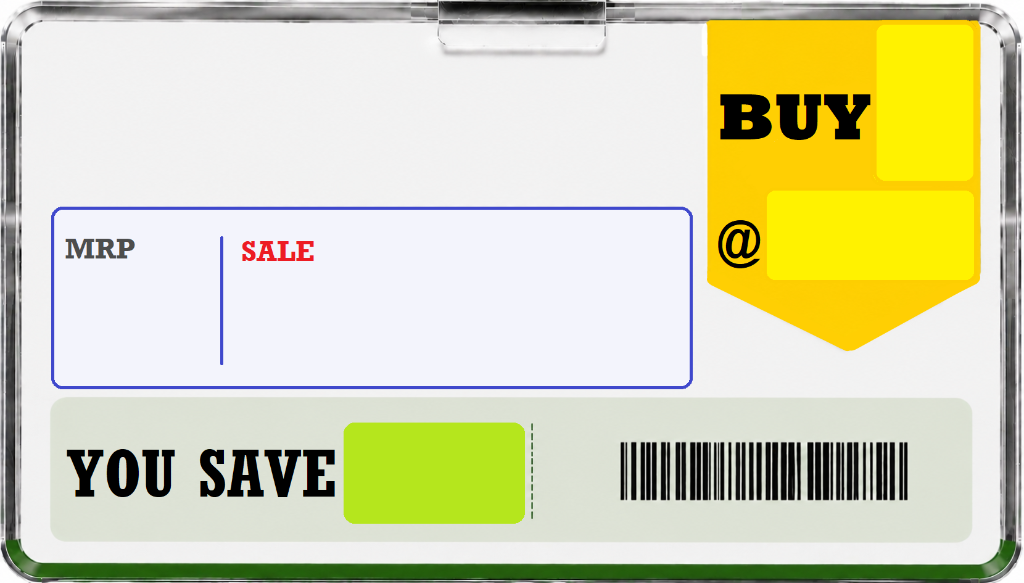
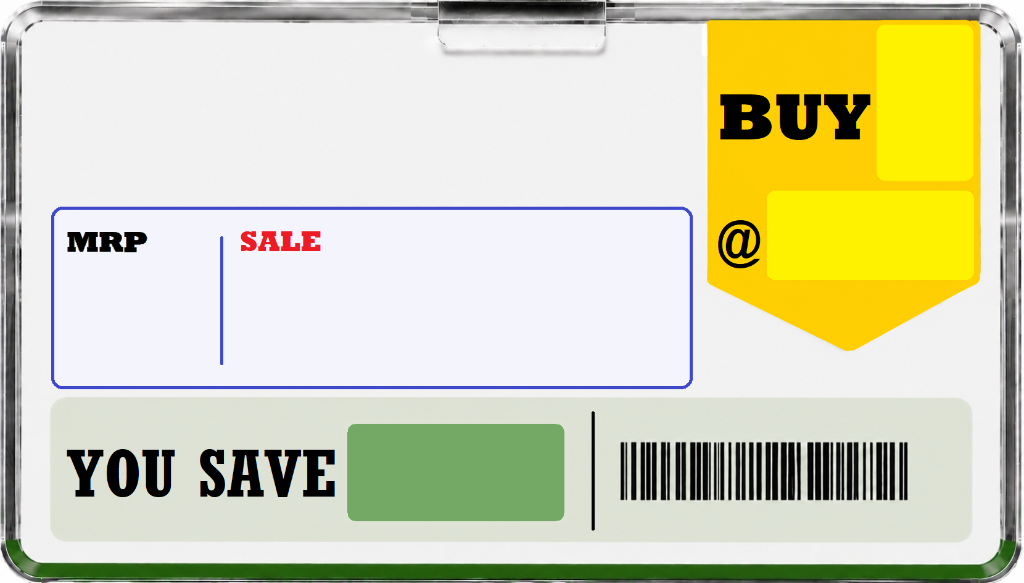
Fix: Replace PNG template assets with authoritative newly provided picture templates (Build 202608132111)

Changed region(s): [[0.3125, 0.7101, 0.5938, 0.9262], [0.2188, 0.3705, 0.3125, 0.4631], [0.0625, 0.4014, 0.1562, 0.4631]]

diff --git a/frontend/customer/js/scanner.js b/frontend/customer/js/scanner.js
@@ -1032,12 +1032,6 @@ function renderV2ProductCard(p, barcode) {
   const saleVal = Math.round(rawSale);
   const savingsVal = mrpVal > saleVal ? (mrpVal - saleVal) : 0;
 
-  // Format sale price with fixed 2 decimal places (.00) sitting at bottom baseline
-  const formattedSale = rawSale.toFixed(2);
-  const saleParts = formattedSale.split('.');
-  const wholePart = saleParts[0];
-  const decPart = '.' + saleParts[1];
-
   // Zone 3: Price Area (MRP & Sale Price)
   const mrpEl = document.getElementById('single-mrp');
   if (mrpEl) {
@@ -1046,7 +1040,7 @@ function renderV2ProductCard(p, barcode) {
 
   const priceEl = document.getElementById('single-sale-price');
   if (priceEl) {
-    priceEl.innerHTML = `<div class="esl-sale-unit" id="esl-sale-unit"><span class="esl-rupee">₹</span><span class="esl-sale-num">${wholePart}<span class="esl-sale-dec">${decPart}</span></span></div>`;
+    priceEl.innerHTML = `<div class="esl-sale-unit" id="esl-sale-unit"><span class="esl-rupee">₹</span><span class="esl-sale-num">${saleVal}</span></div>`;
   }
 
   // Dynamic Geometric Zone Containers

diff --git a/frontend/customer/js/build-env.js b/frontend/customer/js/build-env.js
@@ -1,10 +1,10 @@
 // Automatically generated build metadata
 window.APP_BUILD = {
   version: "0.1.0",
-  build: "202608132042",
-  commit: "d822a92",
+  build: "202608132111",
+  commit: "5b4daae",
   branch: "main",
-  buildTime: "2026-08-13T20:42:18.470Z",
+  buildTime: "2026-08-13T21:11:04.039Z",
   environment: "production",
   serviceWorkerEnabled: true
 };

diff --git a/frontend/customer/index.html b/frontend/customer/index.html
@@ -11,7 +11,7 @@
   <!-- html5-qrcode library for barcode camera decoding -->
   <script src="js/libs/html5-qrcode.min.js"></script>
   <script src="js/scanner.js"></script>
-  <script>window.HTML_BUILD = "202608132042";</script>
+  <script>window.HTML_BUILD = "202608132111";</script>
 </head>
 <body>
   <div class="app-shell">

diff --git a/frontend/customer/sw.js b/frontend/customer/sw.js
@@ -1,4 +1,4 @@
-const CACHE_NAME = '78pricecheck-202608132042';
+const CACHE_NAME = '78pricecheck-202608132111';
 const ASSETS_TO_CACHE = [
   './',
   './index.html',
